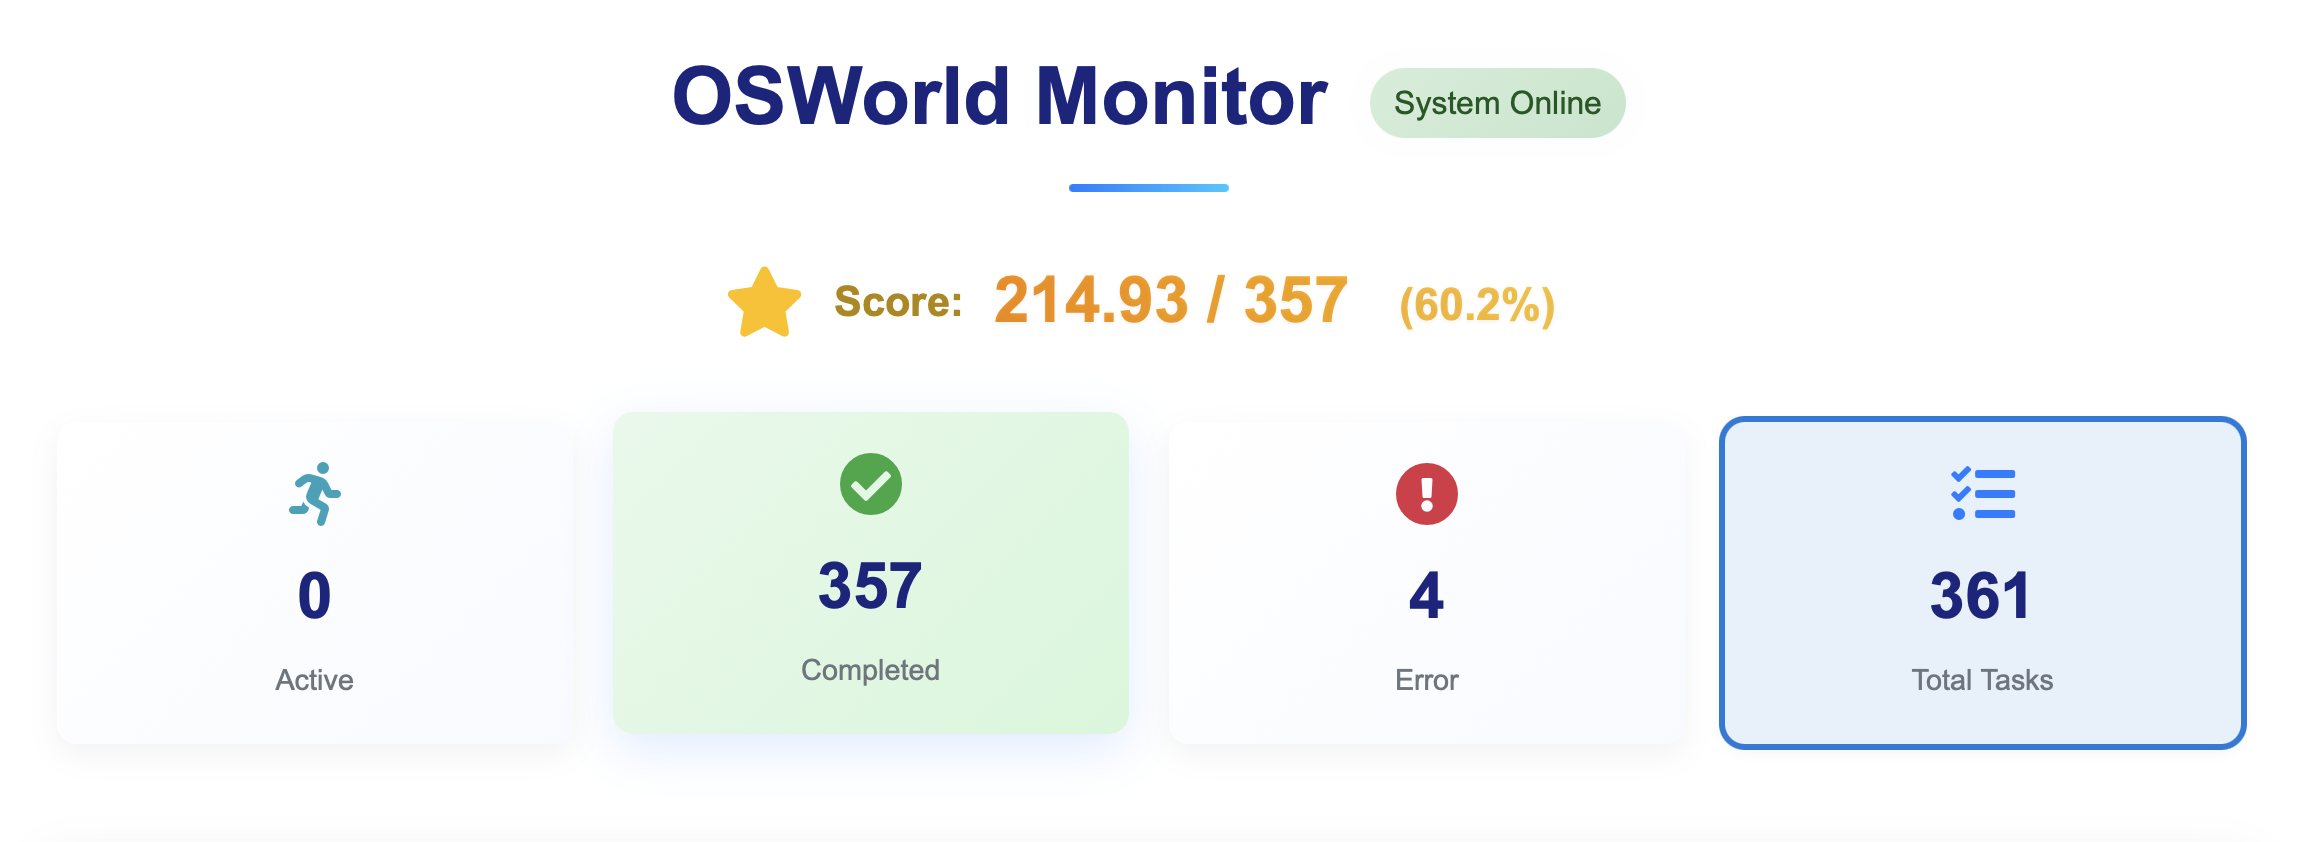
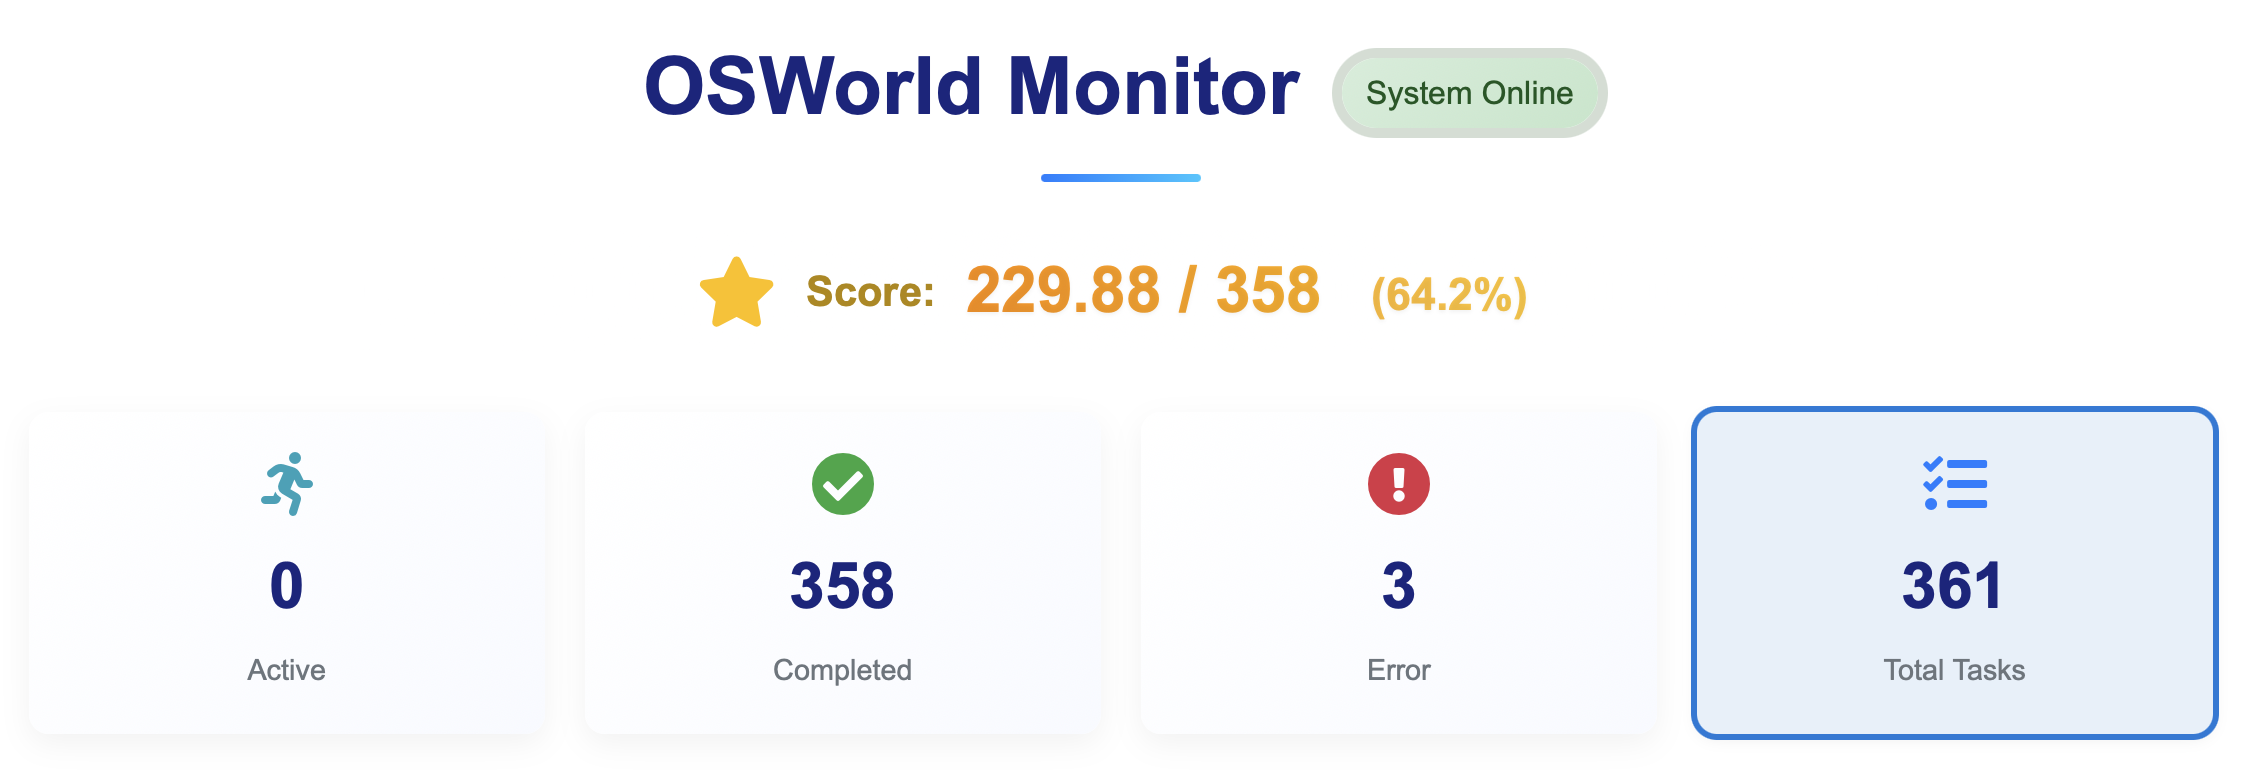
update OSWorld score

diff --git a/README.zh-CN.md b/README.zh-CN.md
@@ -31,7 +31,7 @@
 或通过邮件联系我们：contact@turix.ai
 
 TuriX 让你的强大 AI 模型能在桌面上真正动手操作。
-它内置 **最先进的计算机使用Agent**（在我们的 OSWorld 风格 Mac 基准上成功率达到 80%，在 OSWorld 上成功率达到 60%），同时保持 100% 开源，并对个人与科研用途免费。
+它内置 **最先进的计算机使用Agent**（在我们的 OSWorld 风格 Mac 基准上成功率达到 80%，在 OSWorld 上成功率达到 64.2%），同时保持 100% 开源，并对个人与科研用途免费。
 
 想用你自己的模型？**在 `config.json` 中切换即可。**
 
@@ -149,10 +149,10 @@ git checkout mac_legacy
 
 ### OSWorld 基准测试 — 排行榜第 3 名（50 步）
 
-TuriX 在完整 OSWorld 基准测试中取得 **59.7%（213.29 / 357）** 的成绩，在所有提交的 Agent 中**排名第 3**。值得注意的是，TuriX 专为 **macOS** 打造和优化，在我们自建的 OSWorld 风格 Mac 基准测试中达到了 **80% 以上的成功率**。我们**没有使用任何 Linux 训练数据**，却依然在 OSWorld 的 Linux 环境中取得了前三的成绩。
+TuriX 在完整 OSWorld 基准测试中取得 **64.2%（229.88 / 357）** 的成绩，在所有提交的 Agent 中**排名第 3**。值得注意的是，TuriX 专为 **macOS** 打造和优化，在我们自建的 OSWorld 风格 Mac 基准测试中达到了 **80% 以上的成功率**。我们**没有使用任何 Linux 训练数据**，却依然在 OSWorld 的 Linux 环境中取得了前三的成绩。
 
 <p align="center">
-   <img src="./doc/os-world.png" width="600" alt="TuriX OSWorld 基准测试成绩 — 59.7%">
+   <img src="./doc/os-world.png" width="600" alt="TuriX OSWorld 基准测试成绩 — 64.2%">
 </p>
 
 <p align="center">
